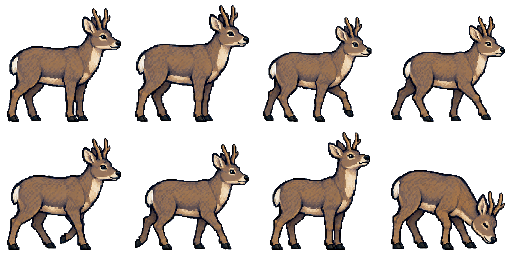
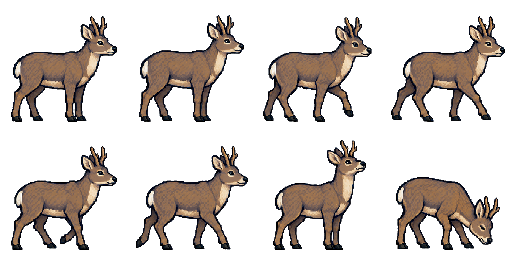
Fix wildlife sliding and refine fox walk sprites

diff --git a/src/systems/WildlifeSystem.ts b/src/systems/WildlifeSystem.ts
@@ -2,7 +2,7 @@ import Phaser from 'phaser';
 import {species,Species} from '../data/wildlife';
 
 export type AnimalState='idle'|'moving'|'alert';
-export type Animal={data:Species;sprite:Phaser.GameObjects.Sprite;state:AnimalState;elapsed:number;clue:Phaser.GameObjects.Container};
+export type Animal={data:Species;sprite:Phaser.GameObjects.Sprite;state:AnimalState;elapsed:number;direction:number;clue:Phaser.GameObjects.Container};
 
 export class WildlifeSystem{
  animals:Animal[];
@@ -24,7 +24,7 @@ export class WildlifeSystem{
    const caption=scene.add.text(x-54,520,data.bonus?'ÚLTIMA PISTA · E':'RASTRO · E',{fontFamily:'monospace',fontSize:'15px',color:'#ffe1a4'});
    const clue=scene.add.container(0,0,[marker,icon,caption]).setDepth(3);
    const sprite=scene.add.sprite(data.x,data.y,data.texture,0).setScale(data.id==='condor'?1.36:.92).play(`${data.texture}-idle`);
-   return {data,sprite,state:'idle' as AnimalState,elapsed:0,clue};
+   return {data,sprite,state:'idle' as AnimalState,elapsed:0,direction:1,clue};
   });
  }
 
@@ -43,15 +43,25 @@ export class WildlifeSystem{
    a.elapsed+=dt;
    const unlocked=this.clues.has(a.data.id);
    a.clue.setVisible(!unlocked&&(!a.data.bonus||this.count===5));
-   a.state=Math.abs(px-a.sprite.x)<100?'alert':Math.floor(a.elapsed/2200)%2?'moving':'idle';
-   const amp=a.data.kind==='bird'?100:a.state==='moving'?35:5;
-   a.sprite.x=a.data.x+Math.sin(a.elapsed/1700)*amp;
-   a.sprite.y=a.data.y+(a.data.kind==='bird'?Math.sin(a.elapsed/1100)*35:0);
-   a.sprite.setFlipX(Math.cos(a.elapsed/1700)<0);
+   const flying=a.data.kind==='bird';
+   const perched=a.data.kind==='woodpecker';
+   a.state=flying?'moving':Math.abs(px-a.sprite.x)<100?'alert':Math.floor(a.elapsed/2200)%2?'moving':'idle';
+   if(flying){
+    a.sprite.x=a.data.x+Math.sin(a.elapsed/1700)*100;
+    a.sprite.y=a.data.y+Math.sin(a.elapsed/1100)*35;
+    a.sprite.setFlipX(Math.cos(a.elapsed/1700)<0);
+   }else if(a.state==='moving'&&!perched){
+    // Only walk frames translate. Idle, alert and resting poses keep their footing.
+    const speed=a.data.kind==='fox'?26:20;
+    a.sprite.x+=a.direction*speed*Math.min(dt,50)/1000;
+    if(Math.abs(a.sprite.x-a.data.x)>=52){
+     a.sprite.x=a.data.x+a.direction*52;
+     a.direction*=-1;
+    }
+    a.sprite.setFlipX(a.direction<0);
+   }
    a.sprite.setAlpha(unlocked?1:.22);
-   if(this.found.has(a.data.id)&&a.data.id!=='condor'){a.sprite.anims.stop();a.sprite.setFrame(7);}
-   else if(this.found.has(a.data.id)){a.sprite.play('condor-moving',true);}
-   else if(a.state==='alert'){a.sprite.anims.stop();a.sprite.setFrame(6);}
+   if(a.state==='alert'){a.sprite.anims.stop();a.sprite.setFrame(6);}
    else a.sprite.play(`${a.data.texture}-${a.state}`,true);
   }
   const candidate=aim?this.animals.find(a=>this.clues.has(a.data.id)&&!this.found.has(a.data.id)&&Math.abs(a.sprite.x-px)<650&&Phaser.Math.Distance.Between(aim.x,aim.y,a.sprite.x,a.sprite.y)<78):undefined;

diff --git a/src/scenes/BootScene.ts b/src/scenes/BootScene.ts
@@ -27,7 +27,8 @@ export class BootScene extends Phaser.Scene{
  }
  for(const animal of ['fox','guanaco','condor','woodpecker','huemul']){
  this.anims.create({key:`${animal}-idle`,frames:this.anims.generateFrameNumbers(animal,{start:0,end:1}),frameRate:2,repeat:-1});
- this.anims.create({key:`${animal}-moving`,frames:this.anims.generateFrameNumbers(animal,{start:2,end:5}),frameRate:6,repeat:-1});
+ const movement=animal==='woodpecker'?[6,7,7,6]:[2,3,4,5];
+ this.anims.create({key:`${animal}-moving`,frames:movement.map(frame=>({key:animal,frame})),frameRate:animal==='condor'?6:8,repeat:-1});
  }
  }
 }

diff --git a/public/sw.js b/public/sw.js
@@ -1,4 +1,4 @@
-const CACHE='rumbo-al-sur-v2';
+const CACHE='rumbo-al-sur-v3';
 self.addEventListener('install',event=>{
  self.skipWaiting();
  event.waitUntil(caches.open(CACHE).then(cache=>cache.addAll(['./','./index.html','./manifest.webmanifest'])));

diff --git a/tools/process_wildlife_sheets.py b/tools/process_wildlife_sheets.py
@@ -58,10 +58,11 @@ def remove_preview_background(image: Image.Image) -> Image.Image:
 
 
 def normalize(name: str) -> None:
-    source_name = "condor-source-v2.png" if name == "condor" else f"{name}-source.png"
+    source_name = f"{name}-source-v2.png" if name in {"condor", "fox"} else f"{name}-source.png"
     source = remove_preview_background(Image.open(SOURCE / source_name))
     sheet = Image.new("RGBA", (FRAME * GRID[0], FRAME * GRID[1]))
     max_width, max_height = LIMITS[name]
+    cells = []
     for row in range(GRID[1]):
         for column in range(GRID[0]):
             left = round(column * source.width / GRID[0])
@@ -73,18 +74,25 @@ def normalize(name: str) -> None:
             if not bounds:
                 raise RuntimeError(f"Empty {name} frame at {column}, {row}")
             animal = cell.crop(bounds)
-            scale = min(max_width / animal.width, max_height / animal.height)
-            size = (max(1, round(animal.width * scale)), max(1, round(animal.height * scale)))
-            animal = animal.resize(size, Image.Resampling.NEAREST)
-            x = column * FRAME + (FRAME - size[0]) // 2
-            if name == "condor":
-                y = row * FRAME + (FRAME - size[1]) // 2
-            else:
-                y = row * FRAME + 122 - size[1]
-            sheet.alpha_composite(animal, (x, y))
+            cells.append((column, row, animal))
+    # Preserve body size through each grounded walk cycle instead of stretching
+    # every pose to fill the frame. Condor wing spans intentionally vary.
+    common_scale = min(min(max_width / animal.width, max_height / animal.height)
+                       for _, _, animal in cells)
+    for column, row, animal in cells:
+        scale = min(max_width / animal.width, max_height / animal.height) if name == "condor" else common_scale
+        size = (max(1, round(animal.width * scale)), max(1, round(animal.height * scale)))
+        animal = animal.resize(size, Image.Resampling.NEAREST)
+        x = column * FRAME + (FRAME - size[0]) // 2
+        if name == "condor":
+            y = row * FRAME + (FRAME - size[1]) // 2
+        else:
+            y = row * FRAME + 122 - size[1]
+        sheet.alpha_composite(animal, (x, y))
     sheet.save(OUTPUT / f"{name}-sheet.png", optimize=True)
 
 
 if __name__ == "__main__":
     for animal_name in LIMITS:
         normalize(animal_name)
+
